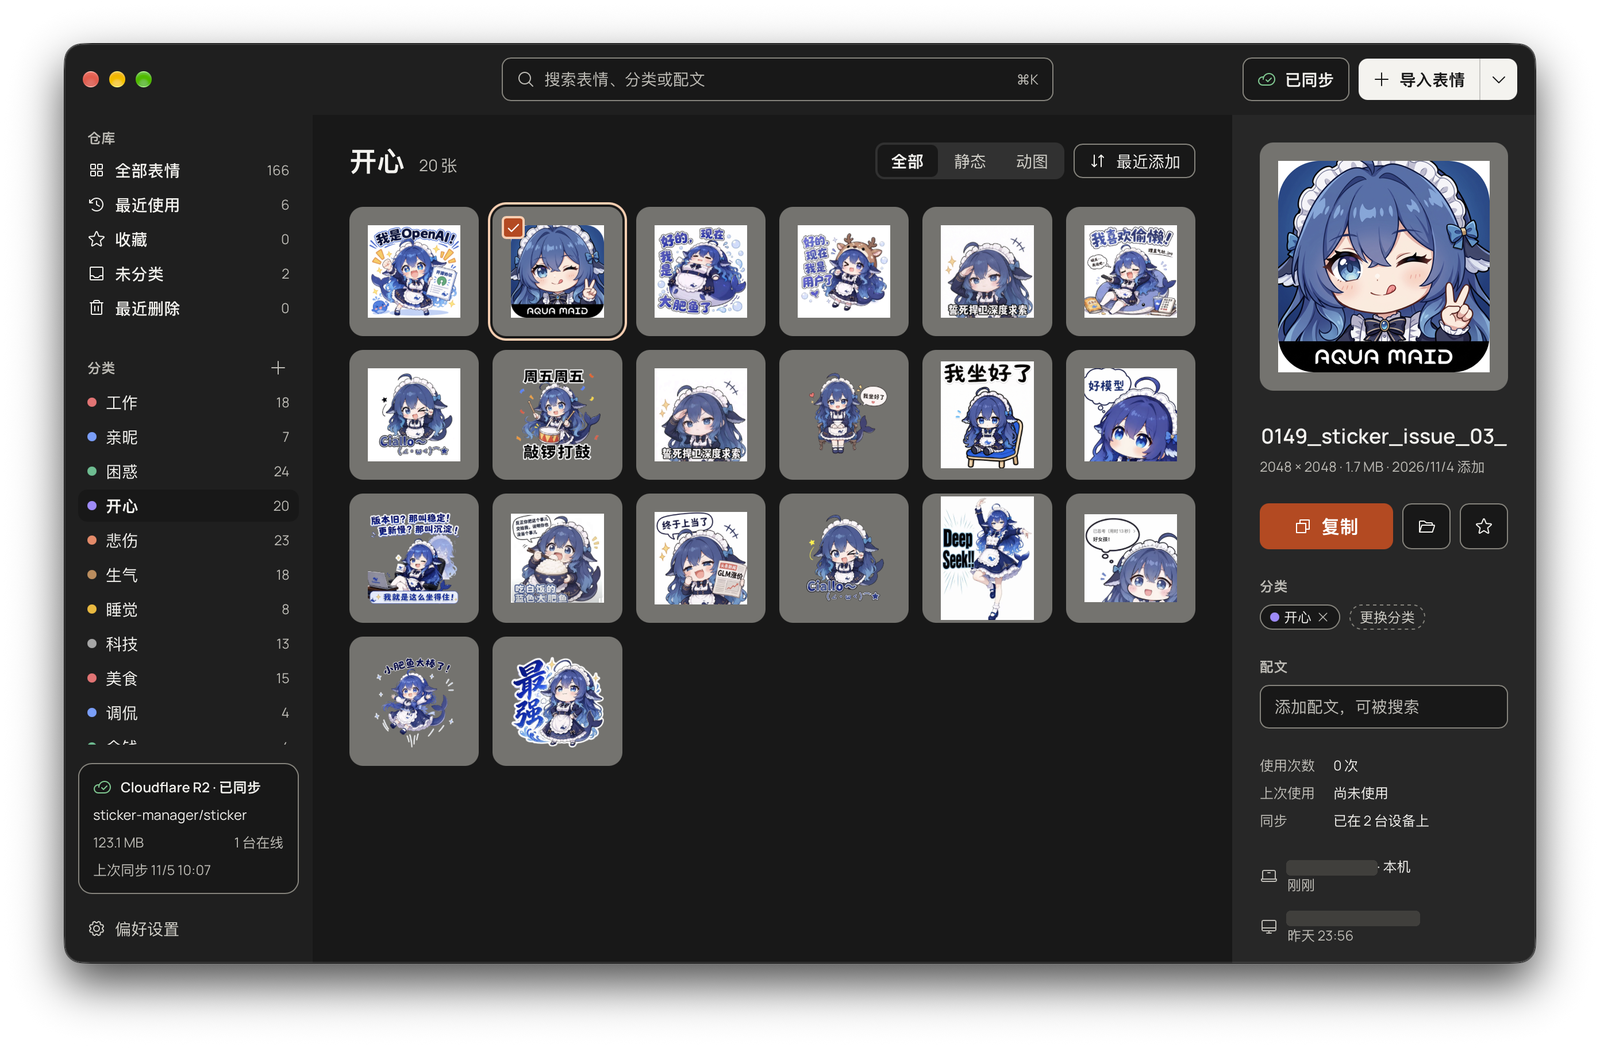
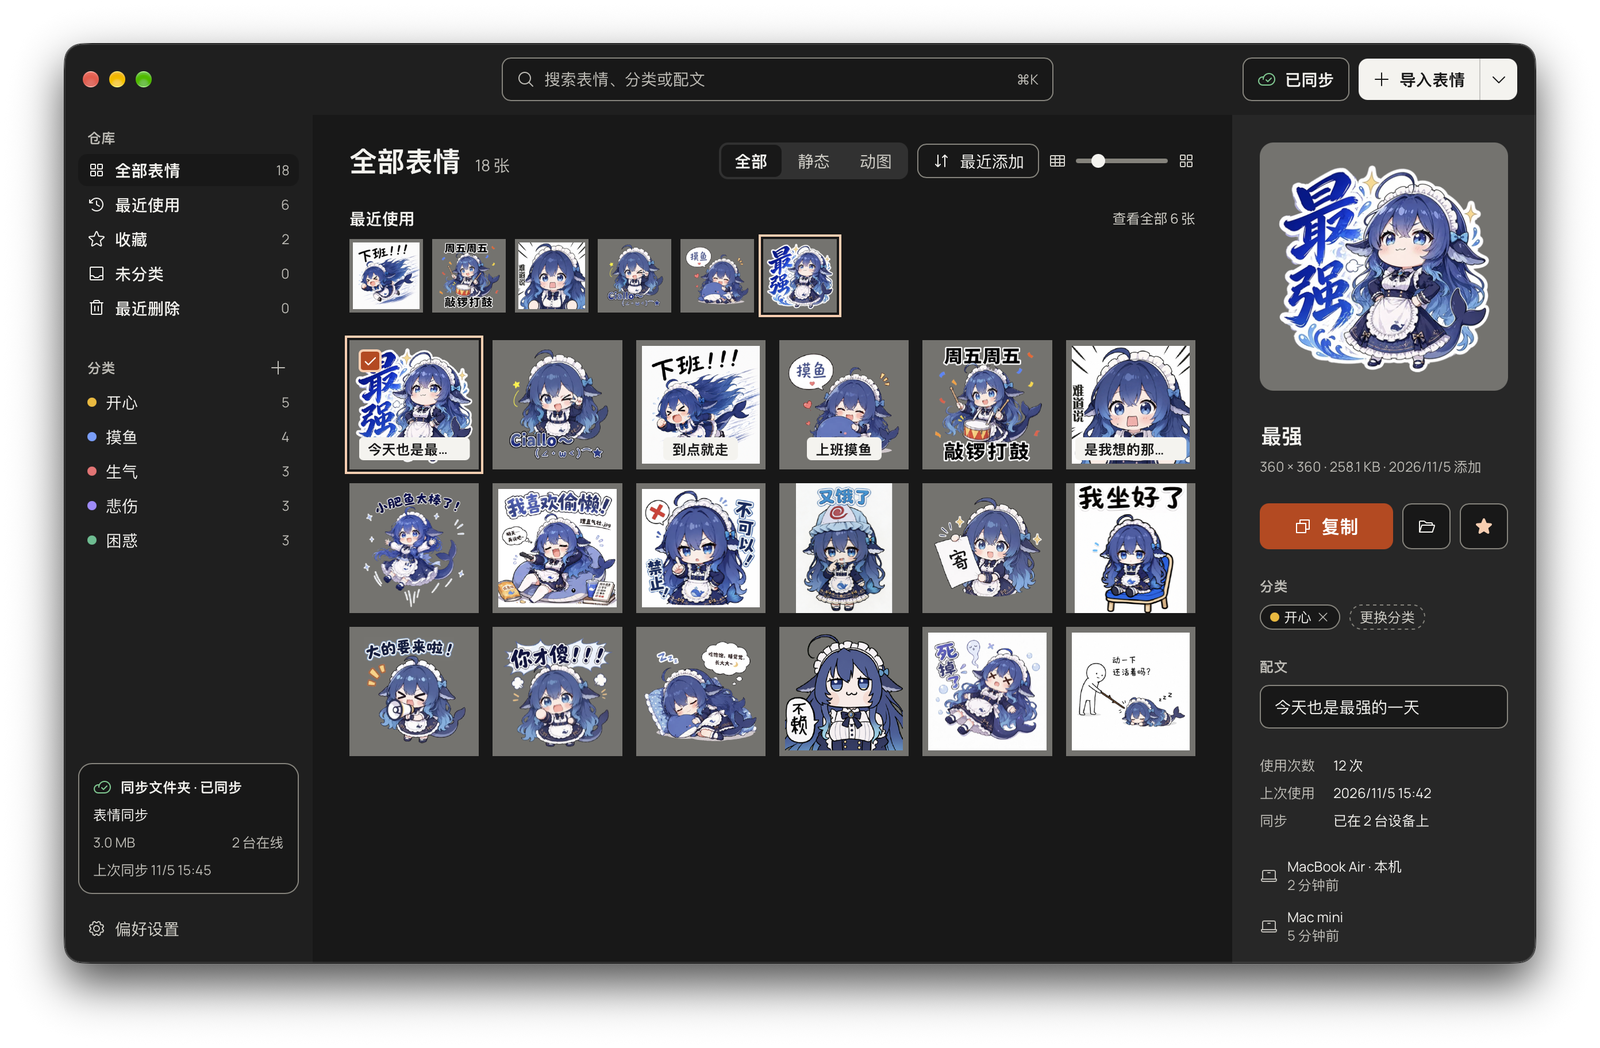
docs: reshoot README images and add sync screenshots (#6)
Reshoot the three README images from a seeded temporary library so they
only show the filtered stickers in website/src/assets/stickers and fake
device names. Add two screenshots to the sync docs and note the README
images in website/CREDITS.md.

diff --git a/website/CREDITS.md b/website/CREDITS.md
@@ -29,6 +29,6 @@
 | `src/assets/stickers/sidiaole.png` | `memes/sad/0143_sticker_bf_201.png` |
 | `public/media/cooking.gif` | `memes/food/0173_sticker_issue_20_001.gif` |
 
-`public/og.png` 里的表情也来自这份列表。
+`public/og.png` 里的表情也来自这份列表。仓库根目录 `docs/images/` 的 README 截图里出现的表情，也都在这份列表内。
 
 字体 [Manrope](https://github.com/sharanda/manrope) 使用 SIL Open Font License，图标来自 [Phosphor Icons](https://phosphoricons.com/)（MIT）。
